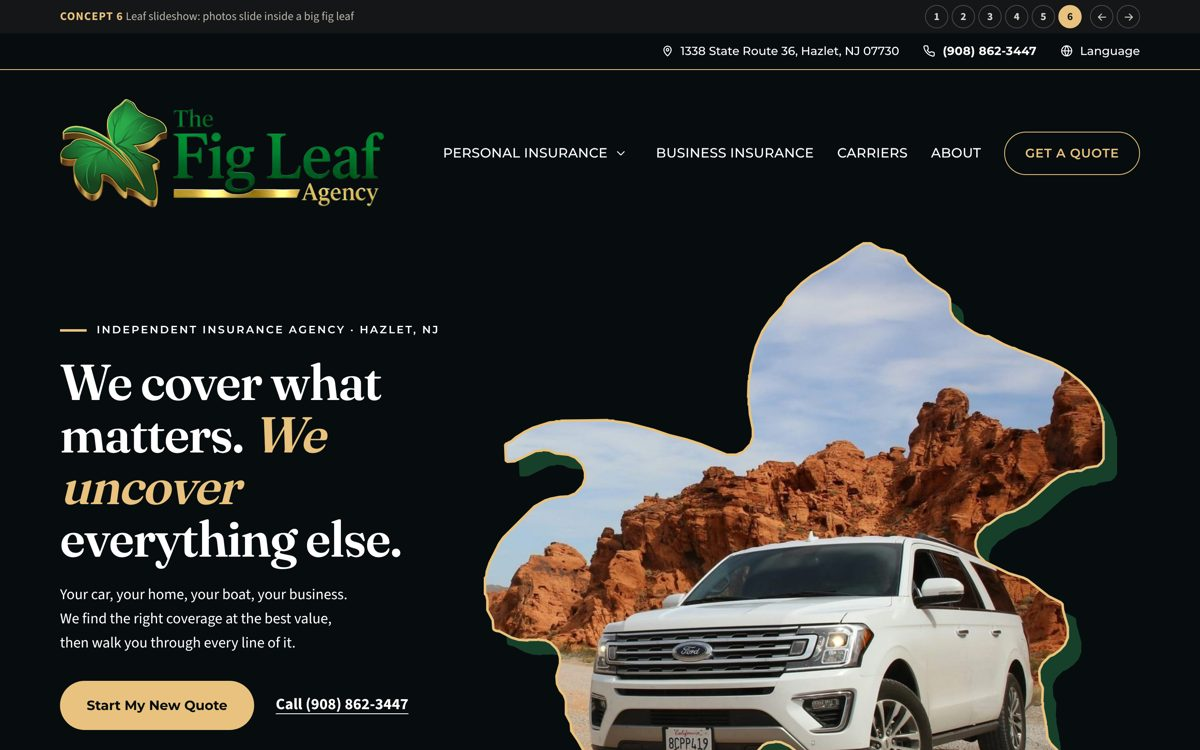
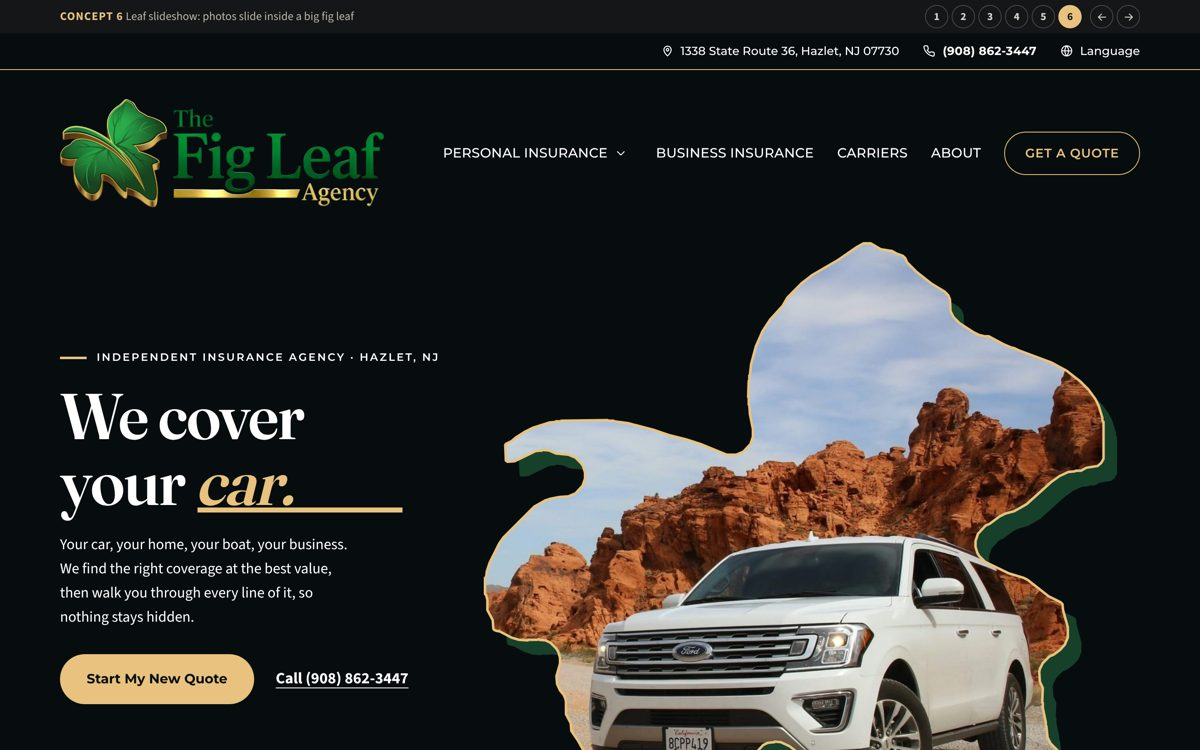
Concept 6: headline matches the other concepts and follows the slides
"We cover your car." with the last word changing in step with the
photo in the leaf (car, home, boat). The captions under the headline
and the team slide are gone.

Claude-Session: https://claude.ai/code/session_01TyMX1MTZ8L8sHijkkao1sy

Changed region(s): [[0.0308, 0.4293, 0.37, 0.9813]]

diff --git a/concept-6/index.html b/concept-6/index.html
@@ -171,57 +171,35 @@
     <!-- ==================================================================
          Hero (concept 6, "Leaf slideshow"): the Fig Leaf logo leaf, drawn
          large, is the frame. Photos slide through it, with a gold outline
-         around the edge and the caption for each beside it (concept.js).
+         around the edge, and the last word of the headline changes to
+         match the photo showing (concept.js).
          ================================================================== -->
     <section class="l-hero" aria-labelledby="hero-title">
       <div class="l-hero__inner">
         <div class="l-hero__copy">
           <p class="l-hero__eyebrow"><span>Independent insurance agency <span aria-hidden="true">·</span> Hazlet, NJ</span></p>
-          <h1 class="l-hero__title" id="hero-title">We cover what matters. <em>We uncover</em> everything else.</h1>
-          <p class="l-hero__lede">Your car, your home, your boat, your business. We find the right coverage at the best value, then walk you through every line of it.</p>
+          <h1 class="l-hero__title" id="hero-title">
+            We cover<br> your <span class="l-rotate" aria-hidden="true"><span class="l-rotate__word is-active" data-key="car">car.</span><span class="l-rotate__word" data-key="home">home.</span><span class="l-rotate__word" data-key="boat">boat.</span></span><span class="visually-hidden">car, your home and your boat.</span>
+          </h1>
+          <p class="l-hero__lede">Your car, your home, your boat, your business. We find the right coverage at the best value, then walk you through every line of it, so nothing stays hidden.</p>
           <div class="l-hero__actions">
             <a class="l-btn" href="crq-form/">Start My New Quote</a>
             <a class="l-hero__call" href="tel:+19088623447">Call (908) 862-3447</a>
-          </div>
-          <div class="l-cap is-active" data-key="car">
-            <p class="l-cap__num"><span>01</span> / 04</p>
-            <p class="l-cap__title">Auto insurance</p>
-            <p class="l-cap__text">Liability, collision and comprehensive, compared across dozens of carriers.</p>
-            <a class="l-cap__link" href="https://figleafagency.com/auto-insurance/">Start a car quote <span aria-hidden="true">→</span></a>
-          </div>
-          <div class="l-cap" data-key="home" hidden>
-            <p class="l-cap__num"><span>02</span> / 04</p>
-            <p class="l-cap__title">Homeowners insurance</p>
-            <p class="l-cap__text">Your house, your belongings and your liability, explained line by line.</p>
-            <a class="l-cap__link" href="homeowners-insurance/">See home coverage <span aria-hidden="true">→</span></a>
-          </div>
-          <div class="l-cap" data-key="boat" hidden>
-            <p class="l-cap__num"><span>03</span> / 04</p>
-            <p class="l-cap__title">Boat insurance</p>
-            <p class="l-cap__text">Hull, liability and on-the-water cover for weekends on the bay.</p>
-            <a class="l-cap__link" href="https://figleafagency.com/boat-insurance/">Ask about boat cover <span aria-hidden="true">→</span></a>
-          </div>
-          <div class="l-cap" data-key="team" hidden>
-            <p class="l-cap__num"><span>04</span> / 04</p>
-            <p class="l-cap__title">Your local agency</p>
-            <p class="l-cap__text">A real team in Hazlet, New Jersey, who pick up the phone and explain every line.</p>
-            <a class="l-cap__link" href="https://figleafagency.com/about/">Meet the team <span aria-hidden="true">→</span></a>
           </div>
         </div>
 
         <div class="l-show" role="region" aria-roledescription="carousel" aria-label="What we cover">
           <div class="l-leaf">
             <ul class="l-track" aria-live="off">
-              <li class="l-slide" data-key="car" aria-roledescription="slide" aria-label="1 of 4: Auto insurance"><img src="assets/photo-car.jpg" alt="A white SUV parked on a desert road" decoding="async"></li>
-              <li class="l-slide" data-key="home" aria-roledescription="slide" aria-label="2 of 4: Homeowners insurance"><img src="assets/photo-home.jpg" alt="A brick family home with a green lawn" decoding="async" loading="lazy"></li>
-              <li class="l-slide" data-key="boat" aria-roledescription="slide" aria-label="3 of 4: Boat insurance"><img src="assets/photo-boat.jpg" alt="A motor yacht on open water" decoding="async" loading="lazy"></li>
-              <li class="l-slide" data-key="team" aria-roledescription="slide" aria-label="4 of 4: Your local agency"><img src="assets/team-photo-900.jpg" alt="The Fig Leaf Agency team in their Hazlet office" decoding="async" loading="lazy"></li>
+              <li class="l-slide" data-key="car" aria-roledescription="slide" aria-label="1 of 3: Auto insurance"><img src="assets/photo-car.jpg" alt="A white SUV parked on a desert road" decoding="async"></li>
+              <li class="l-slide" data-key="home" aria-roledescription="slide" aria-label="2 of 3: Homeowners insurance"><img src="assets/photo-home.jpg" alt="A brick family home with a green lawn" decoding="async" loading="lazy"></li>
+              <li class="l-slide" data-key="boat" aria-roledescription="slide" aria-label="3 of 3: Boat insurance"><img src="assets/photo-boat.jpg" alt="A motor yacht on open water" decoding="async" loading="lazy"></li>
             </ul>
             <svg class="l-leaf__edge" viewBox="0 0 520.06 567.04" aria-hidden="true" focusable="false"><path d="M17.5,168.5 L17.0,169.5 L17.5,182.5 L19.0,183.5 L25.0,183.0 L42.5,174.5 L48.0,174.0 L48.5,173.5 L54.0,174.0 L59.5,176.5 L70.0,177.5 L76.0,180.0 L81.0,185.0 L82.5,187.5 L84.0,192.5 L84.0,197.5 L82.0,203.5 L76.0,210.0 L70.0,212.5 L62.5,213.0 L55.0,214.5 L50.5,216.0 L41.5,221.0 L15.5,247.0 L12.0,252.0 L4.0,268.0 L1.5,275.5 L1.0,280.0 L0.0,281.0 L0.0,294.5 L1.0,295.5 L2.0,299.5 L2.0,308.0 L6.5,316.5 L7.0,323.5 L7.5,324.5 L9.5,325.5 L12.5,326.0 L22.0,331.0 L28.5,333.0 L36.0,333.5 L36.5,333.0 L43.5,333.0 L45.0,332.5 L45.5,333.0 L51.0,333.5 L55.0,335.5 L60.0,340.5 L61.5,343.0 L63.0,348.0 L63.0,353.0 L60.0,363.5 L60.5,370.0 L63.0,375.5 L66.0,379.0 L67.5,382.5 L68.0,385.0 L68.0,395.5 L72.0,403.0 L72.5,409.5 L78.0,417.5 L87.0,433.5 L96.5,448.5 L102.0,455.5 L110.5,464.5 L112.0,468.0 L112.5,472.0 L114.5,476.0 L118.5,480.5 L125.0,485.5 L132.5,493.0 L139.5,497.0 L144.0,498.5 L149.5,499.0 L150.0,499.5 L156.0,499.5 L156.5,499.0 L170.0,498.0 L170.5,498.5 L176.0,499.0 L182.5,503.0 L185.0,502.5 L189.0,498.5 L199.5,494.0 L202.0,491.5 L210.0,474.5 L216.0,468.5 L217.5,468.0 L221.0,464.5 L222.5,461.5 L224.0,453.5 L225.5,434.0 L227.5,428.0 L233.5,421.5 L237.5,419.5 L243.0,419.0 L243.5,418.5 L248.5,419.0 L256.0,422.5 L262.5,427.5 L269.5,434.5 L285.0,457.5 L287.5,464.5 L287.5,469.5 L285.5,477.0 L286.0,492.0 L288.0,495.5 L292.0,499.0 L300.0,501.5 L306.0,502.0 L306.5,502.5 L322.0,502.5 L322.5,503.0 L326.0,503.0 L331.0,504.5 L333.0,504.5 L350.0,509.5 L363.0,515.5 L371.5,521.0 L392.0,538.5 L413.5,560.0 L417.5,563.0 L422.5,565.5 L424.0,565.5 L425.0,566.5 L446.0,566.5 L447.0,565.5 L452.0,564.5 L457.0,562.0 L461.5,557.5 L473.5,536.0 L475.0,531.5 L476.0,524.5 L480.5,516.0 L482.0,511.0 L482.0,507.0 L482.5,506.5 L482.5,501.0 L482.0,500.5 L482.0,428.5 L481.0,426.0 L475.0,420.0 L472.5,415.0 L471.5,405.5 L471.0,405.0 L471.0,402.5 L468.5,390.0 L468.5,386.0 L468.0,385.5 L468.5,373.5 L466.0,368.0 L465.5,360.0 L466.0,357.5 L468.5,352.5 L474.0,347.0 L477.5,345.5 L483.0,341.5 L487.0,337.0 L489.5,331.0 L489.5,322.5 L485.5,308.0 L485.0,303.0 L483.5,301.5 L473.5,296.5 L455.5,282.5 L452.5,281.0 L439.5,277.0 L420.0,267.5 L415.0,262.5 L413.5,260.0 L412.0,255.0 L412.0,250.0 L414.0,244.0 L420.5,237.0 L424.0,235.5 L432.0,229.5 L437.0,227.0 L444.5,225.0 L455.0,219.0 L475.5,200.5 L482.5,195.5 L490.0,192.0 L495.5,191.5 L496.0,191.0 L500.5,191.0 L505.0,188.5 L514.5,187.0 L517.5,184.5 L519.5,181.0 L519.5,150.0 L518.5,149.0 L518.5,146.5 L515.5,136.5 L512.5,130.5 L507.0,123.0 L500.0,116.0 L488.5,107.0 L475.5,100.0 L448.5,90.0 L444.5,88.0 L442.0,87.5 L435.0,84.5 L423.0,78.0 L419.5,78.0 L415.0,77.0 L410.0,74.5 L398.5,67.0 L393.5,62.0 L391.0,57.0 L390.5,47.0 L389.0,43.5 L386.0,40.5 L374.5,33.5 L362.5,24.0 L354.5,16.0 L353.0,12.5 L351.0,10.5 L345.5,8.5 L342.0,6.5 L332.5,5.0 L324.0,0.0 L318.0,0.0 L312.5,3.0 L296.5,14.0 L275.0,26.5 L266.0,33.5 L254.0,45.5 L250.0,52.5 L239.5,64.0 L233.0,74.0 L227.5,86.5 L223.5,101.5 L222.5,110.5 L222.0,111.0 L222.0,115.0 L221.5,115.5 L221.0,129.0 L221.5,129.5 L221.5,135.5 L222.0,136.0 L222.5,143.5 L225.0,156.0 L225.0,162.5 L223.0,168.5 L217.0,175.0 L211.0,177.5 L203.0,177.5 L181.0,168.5 L168.5,164.5 L154.5,161.0 L141.0,156.5 L120.0,151.0 L108.5,149.5 L108.0,149.0 L103.5,149.0 L103.0,148.5 L64.0,149.0 L63.5,149.5 L59.5,149.5 L59.0,150.0 L54.0,150.5 L40.0,155.0 L33.0,158.5 L26.0,163.0 L22.5,166.0Z"/></svg>
           </div>
           <div class="l-controls">
             <button class="l-arrow l-arrow--prev" type="button" aria-label="Previous slide"><svg class="icon" aria-hidden="true"><use href="#i-arrow"></use></svg></button>
-            <div class="l-dots"><button class="l-dot is-active" type="button" data-go="0" aria-label="Show slide 1: Auto insurance" aria-current="true"></button><button class="l-dot" type="button" data-go="1" aria-label="Show slide 2: Homeowners insurance"></button><button class="l-dot" type="button" data-go="2" aria-label="Show slide 3: Boat insurance"></button><button class="l-dot" type="button" data-go="3" aria-label="Show slide 4: Your local agency"></button></div>
+            <div class="l-dots"><button class="l-dot is-active" type="button" data-go="0" aria-label="Show slide 1: Auto insurance" aria-current="true"></button><button class="l-dot" type="button" data-go="1" aria-label="Show slide 2: Homeowners insurance"></button><button class="l-dot" type="button" data-go="2" aria-label="Show slide 3: Boat insurance"></button></div>
             <button class="l-arrow" type="button" aria-label="Next slide"><svg class="icon" aria-hidden="true"><use href="#i-arrow"></use></svg></button>
             <button class="l-pause" type="button" aria-pressed="false" aria-label="Pause the slideshow"><span aria-hidden="true"></span></button>
           </div>

diff --git a/concept-6/concept.css b/concept-6/concept.css
@@ -2,8 +2,8 @@
    Concept 6 · Leaf slideshow
    The hero is one big Fig Leaf: the logo's leaf, drawn larger than the
    hero art on any other concept, is the frame, and photos of what we cover
-   slide through it. The caption for each photo sits beside it, under the
-   headline. Header, sections, footer and the inner pages use concept 3's
+   slide through it. The last word of the headline changes to match
+   the photo showing. Header, sections, footer and the inner pages use concept 3's
    look (palette.css), so this file only adds the hero.
 
    Same four colours, one shade each, no gradients or soft shadows:
@@ -56,8 +56,9 @@
   margin: 0;
   font-family: var(--font-heading);
   font-weight: 600;
-  font-size: clamp(2.5rem, 4.2vw, 4.4rem);
-  line-height: 1.04;
+  font-size: clamp(3rem, 5.4vw, 5rem);
+  line-height: 1.02;
+  white-space: nowrap;
   letter-spacing: -0.02em;
 }
 .l-hero__title em { font-style: italic; color: var(--c6-gold); }
@@ -85,22 +86,42 @@
 .l-hero__call:hover { color: var(--c6-gold); }
 .l-hero :focus-visible { outline: 3px solid var(--c6-gold); outline-offset: 3px; }
 
-/* caption for the photo in the leaf */
-.l-cap {
-  margin-top: clamp(28px, 4vw, 48px);
-  padding-top: 22px;
-  border-top: 1px solid var(--c6-green);
-  max-width: 420px;
+/* the changing word: a clipped slot, words slide up through it in step
+   with the slideshow, as on concepts 3 and 5 */
+.l-rotate {
+  position: relative;
+  display: inline-block;
+  vertical-align: top;
+  height: 1.02em;           /* one line of the headline, so the lines stay close */
+  line-height: 1.02;
+  padding-bottom: 0.1em;
+  margin-bottom: -0.1em;
+  min-width: 3.4em;
+  overflow: hidden;
+  font-style: italic;
+  color: var(--c6-gold);
 }
-.l-cap[hidden] { display: none; }
-.l-cap.is-active { animation: l-cap-in 600ms var(--c6-ease) both; }
-@keyframes l-cap-in { from { opacity: 0; transform: translateY(10px); } to { opacity: 1; transform: none; } }
-.l-cap__num { margin: 0 0 6px; font-family: var(--font-nav); font-size: 0.8rem; letter-spacing: 0.14em; color: var(--c6-green-light); }
-.l-cap__num span { color: var(--c6-gold); font-weight: 700; }
-.l-cap__title { margin: 0 0 6px; font-family: var(--font-heading); font-size: 1.6rem; font-weight: 600; }
-.l-cap__text { margin: 0 0 12px; line-height: 1.5; }
-.l-cap__link { color: var(--c6-gold); font-weight: 700; text-decoration: none; }
-.l-cap__link:hover { text-decoration: underline; text-underline-offset: 4px; }
+.l-rotate::after {      /* a gold underline under the slot */
+  content: "";
+  position: absolute;
+  left: 0.04em; right: 0.2em; bottom: 0.04em;
+  height: 0.08em;
+  background: var(--c6-gold);
+}
+.l-rotate__word {
+  position: absolute;
+  left: 0; top: 0;
+  white-space: nowrap;
+  transform: translateY(110%);
+  transition: transform 560ms var(--c6-ease);
+}
+.l-rotate__word.is-active { transform: none; }
+.l-rotate__word.is-leaving { transform: translateY(-110%); }
+
+/* the words sit level with the upper body of the leaf, not its middle */
+@media (min-width: 901px) {
+  .l-hero__copy { align-self: start; margin-top: clamp(32px, 5.5vw, 88px); }
+}
 
 /* --- the leaf: frame for the slideshow ---------------------------------- */
 
@@ -154,7 +175,6 @@
   transition: transform 6000ms ease-out;
 }
 .l-slide.is-active img { transform: scale(1); }   /* a slow push in on the photo showing */
-.l-slide[data-key="team"] img { object-position: 50% 40%; }
 
 /* the gold edge around the leaf */
 .l-leaf__edge {
@@ -223,16 +243,11 @@
 @media (prefers-reduced-motion: reduce) {
   .l-slide, .l-slide img, .l-dot { transition: none; }
   .l-slide img { transform: none; }
-  .l-cap.is-active { animation: none; }
+  .l-rotate__word { transition: none; }
 }
 
 @media (max-width: 900px) {
   .l-hero__inner { grid-template-columns: minmax(0, 1fr); row-gap: 0; }
-  .l-hero__lede { margin-bottom: 24px; }
-  .l-show { margin: 36px 0 0; }
-  .l-hero__copy > .l-cap { margin-top: 28px; }
+  .l-show { margin: 40px 0 0; }
   .l-show { justify-self: center; max-width: min(100%, 620px); order: 2; }
-  .l-hero__copy { display: contents; }
-  .l-hero__copy > * { order: 1; }
-  .l-hero__copy > .l-cap { order: 3; }
 }

diff --git a/concept-6/concept.js b/concept-6/concept.js
@@ -1,6 +1,6 @@
 // Concept 6 hero: a slideshow inside the big Fig Leaf.
-// Photos slide through the leaf every few seconds; the caption beside it
-// follows. Arrows, dots, swipe and the arrow keys (when the slideshow has
+// Photos slide through the leaf every few seconds; the last word of the
+// headline (car, home, boat) changes to match. Arrows, dots, swipe and the arrow keys (when the slideshow has
 // focus) move it by hand; pointing at the leaf or the pause button stops
 // it. With reduced motion it doesn't advance on its own.
 (function () {
@@ -9,7 +9,7 @@
   if (!show) return;
   var slides = Array.prototype.slice.call(show.querySelectorAll('.l-slide'));
   var dots = Array.prototype.slice.call(show.querySelectorAll('.l-dot'));
-  var caps = Array.prototype.slice.call(document.querySelectorAll('.l-cap'));
+  var words = Array.prototype.slice.call(document.querySelectorAll('.l-rotate__word'));
   var pauseBtn = show.querySelector('.l-pause');
   var n = slides.length;
   if (n < 2) return;
@@ -19,6 +19,7 @@
   var i = 0, timer = null, paused = reduce, hovering = false;
 
   function go(next) {
+    var prev = i;
     i = (next + n) % n;
     slides.forEach(function (s, k) {
       s.style.setProperty('--i', i);
@@ -29,11 +30,14 @@
       d.classList.toggle('is-active', k === i);
       if (k === i) d.setAttribute('aria-current', 'true'); else d.removeAttribute('aria-current');
     });
-    caps.forEach(function (c, k) {
-      var on = k === i;
-      c.hidden = !on;
-      c.classList.toggle('is-active', on);
-    });
+    if (prev !== i && words[prev] && words[i]) {
+      var old = words[prev];
+      old.classList.remove('is-active');
+      old.classList.add('is-leaving');
+      setTimeout(function () { old.classList.remove('is-leaving'); }, 600);
+      words[i].classList.remove('is-leaving');
+      words[i].classList.add('is-active');
+    }
   }
   function tick() { go(i + 1); }
   function restart() {

diff --git a/heroes/index.html b/heroes/index.html
@@ -50,7 +50,7 @@
         <p>Black header and hero. The studio fig leaf's tip points at your cursor, the mouse pointer is a little fig leaf, and the car, house and boat photos show through the leaf in step with "We cover your car / home / boat / business."</p></div></a>
       <a class="card" href="../concept-6/"><img src="shots/concept-6.jpg" alt="Concept 6 hero" loading="lazy"><div>
         <h3><b>6</b>Leaf slideshow: photos slide inside a big fig leaf <span class="new">New</span></h3>
-        <p>One big Fig Leaf, the logo's leaf, is the frame: photos of a car, a house, a boat and the team slide through it, with the caption for each beside the headline.</p></div></a>
+        <p>One big Fig Leaf, the logo's leaf, is the frame: photos of a car, a house and a boat slide through it, and the headline's last word changes in step: "We cover your car / home / boat."</p></div></a>
     </div>
   </section>
 

diff --git a/README.md b/README.md
@@ -28,7 +28,7 @@ each `concept-N/` folder is one page:
   concept's CSS, scripts and inner pages and only swaps `hero.jpg` and the hotspot positions. Sources in `hero-ideas/_source/`.
 - `concept-4/`: the photo gallery (the old `concept-7/` link redirects here, see `vercel.json`)
 - `concept-5/`: **Daylight**. A black header and hero (the client's preference) with the agency's studio fig leaf (gallery leaf 1) inside gold rings, labels for Auto, Home, Boat and Business around it, and a headline whose last word rotates through car, home, boat and business. The leaf's tip points at the cursor wherever it is, and the mouse pointer itself is a small fig leaf whose tip is the click point (`assets/leaf-cursor.png`). The car, house and boat photos show through the big leaf in its shape (`assets/leaf-mask.png`), in step with the headline; pointing at a label jumps to it. Below the hero the page is light, with sections in the rounded tile layout (`hs--v5`) and a dark green footer. Its own Homeowners and quote pages.
-- `concept-6/`: **Leaf slideshow**. The hero is one big Fig Leaf (the logo's leaf, `assets/fig-leaf-fill.svg`, larger than the hero art on any other concept) used as a frame: photos of a car, a house, a boat and the team slide through it every few seconds, with a gold edge, a dark green offset leaf behind it, and the caption for each photo beside it. Arrows, dots, a pause button, swipe and the arrow keys move it by hand (`concept.js`). Header, sections (`hs--v2`), footer and the inner pages use concept 3's look. Its own Homeowners and quote pages.
+- `concept-6/`: **Leaf slideshow**. The hero is one big Fig Leaf (the logo's leaf, `assets/fig-leaf-fill.svg`, larger than the hero art on any other concept) used as a frame: photos of a car, a house and a boat slide through it every few seconds, with a gold edge and a dark green offset leaf behind it. The headline matches the other concepts, "We cover your car.", and its last word changes in step with the photo (car, home, boat). Arrows, dots, a pause button, swipe and the arrow keys move it by hand (`concept.js`). Header, sections (`hs--v2`), footer and the inner pages use concept 3's look. Its own Homeowners and quote pages.
 
 Concept 1 is the dark theme. `concept-1/palette.css` loads last on all its pages (home, Homeowners, both quote
 pages) and holds them to four colours, one shade each: gold #e8c27e, black #070d0f, white #fff and dark green
